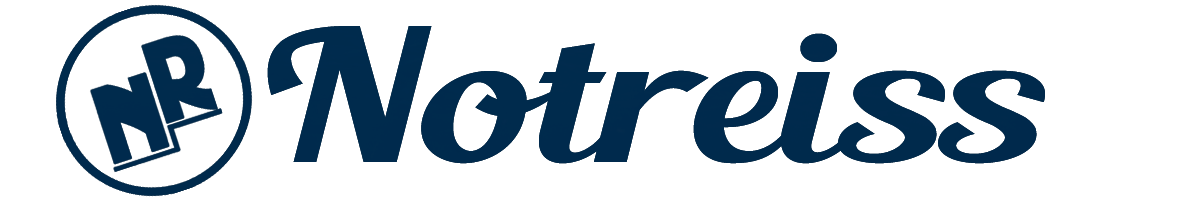
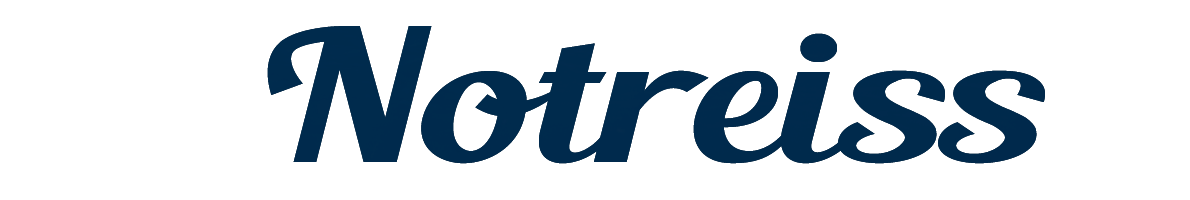
update style and text

Changed region(s): [[0.0311, 0.03, 0.2176, 0.99]]

diff --git a/layouts/partials/header.html b/layouts/partials/header.html
@@ -3,8 +3,8 @@
   <div class="container">
     <div class="row">
       <div class="col-12">
-        <nav class="navbar navbar-expand-lg navbar-light p-0">
-          <a class="navbar-brand font-weight-bold mr-0" href="{{site.BaseURL}}">            
+        <nav class="navbar flex items-center navbar-expand-lg navbar-light p-0">
+          <a class="navbar-brand font-weight-bold mb-3 mr-0" href="{{site.BaseURL}}">            
             {{ partial "logo.html" . }}
           </a>
 
@@ -28,15 +28,15 @@
               {{ $active = or $active (eq .Name $current.Title) }}
               {{if .HasChildren}}
               <li class="nav-item dropdown">
-                <a class="nav-link dropdown-toggle d-inline-block {{ if $active }}active{{ end }}" href="#" role="button" data-toggle="dropdown" aria-expanded="false">{{.Name}}</a>
+                <a class="nav-link dropdown-toggle d-inline-block " href="#" role="button" data-toggle="dropdown" aria-expanded="false">{{.Name}}</a>
                 <ul class="dropdown-menu">
                   {{range .Children}}
-                  <li><a class="dropdown-item {{ if $active }}active{{ end }}" href="{{.URL | absURL}}">{{.Name}}</a></li>
+                  <li><a class="dropdown-item " href="{{.URL | absURL}}">{{.Name}}</a></li>
                   {{end}}
                 </ul>
               </li>
               {{else}}
-              <li class="nav-item {{ if $active }}active{{ end }}">
+              <li class="nav-item">
                 <a class="nav-link" href="{{.URL | absURL}}">{{.Name}}</a>
               </li>
               {{end}}
@@ -47,8 +47,8 @@
             <div class="navbar-right d-none d-lg-inline-block">
               <ul class="social-links list-unstyled list-inline">
                 <li class="list-inline-item ml-4 d-none d-lg-inline-block">
-                  <button class="search-toggle" data-toggle="search" aria-label="Search Toggle">
-                    <i class="las la-search"></i>
+                  <button class="search-toggle flex" data-toggle="search" aria-label="Search Toggle">
+                    <i class="las la-search"></i> 
                   </button>
                 </li>
               </ul>

diff --git a/layouts/partials/page-header.html b/layouts/partials/page-header.html
@@ -17,14 +17,14 @@
         <ul class="list-inline breadcrumb-menu">
           {{ $url := replace .Permalink ( printf "%s" site.BaseURL) "" }}
           {{ $.Scratch.Add "path" site.BaseURL }}
-          <li class="list-inline-item"><a href="{{site.BaseURL | relLangURL}}">Home</a></li>
-          {{ range $index, $element := split $url "/" }}
+          <li class="list-inline-item"><a href="{{site.BaseURL | relLangURL}}">Article</a> | <a href="/author">Writters</a> | <a href="/categories">Categories</a></li>
+          <!-- {{ range $index, $element := split $url "/" }}
           {{ $.Scratch.Add "path" $element }}
           {{ if (ne $element "") }}
           <li class="list-inline-item">/ &nbsp; <a href="{{ $.Scratch.Get `path` }}">{{ . | humanize }}</a></li>
           {{ $.Scratch.Add "path" "/" }}
           {{ end }}
-          {{ end }}
+          {{ end }} -->
           </ul>
       </div>
     </div>

diff --git a/layouts/partials/footer.html b/layouts/partials/footer.html
@@ -24,13 +24,13 @@
       <div class="col-lg-12 text-center mt-5">
         <ul class="list-inline footer-menu mb-4">
           {{ range site.Menus.footer }}
-          <li class="list-inline-item mx-3"><a href="{{.URL | absURL}}">{{.Name}}</a></li>
+          | <li class="list-inline-item mx-3"><a href="{{.URL | absURL}}">{{.Name}}</a></li> 
           {{ end }}
         </ul>
         <ul class="social-links icon-box list-unstyled list-inline font-weight-500 mb-3">
           {{range site.Params.social}}
           <li class="list-inline-item text-center"><a href="{{.url}}" aria-label="social-icon">
-            <i class="lab {{.icon}}"></i>
+            <i class="lab {{.icon}}"></i> 
           </a></li>
           {{end}}
         </ul>

diff --git a/layouts/index.html b/layouts/index.html
@@ -3,11 +3,13 @@
 <section class="section-sm">
   <div class="container">
     <div class="row no-gutters justify-content-center">
+      <h1 class="my-20">Artikel - Artikel Terbaru Notreiss</h1>
+    
       <div class="col-lg-10">
         <div class="row">
           {{ $paginator := .Paginate (where site.RegularPages "Type" "in" site.Params.mainSections) }}
           {{range $index, $items := $paginator.Pages}}
-          <div class="{{ if (eq $index 0) }}col-lg-12{{ else }}col-lg-6{{ end }}">
+          <div class="border-left shadow-sm rounded pt-3 box-shadow my-3 {{ if (eq $index 0) }}col-lg-12{{ else }}col-lg-6{{ end }}">
             {{.Render "post"}}
           </div>
           {{end}}

diff --git a/layouts/author/list.html b/layouts/author/list.html
@@ -4,7 +4,7 @@
   <div class="container">
     <div class="row justify-content-center text-center">
       {{range .RegularPages }}
-      <div class="col-lg-4 col-sm-6 mb-4">
+      <div class="border-left shadow-sm rounded pt-3 box-shadow m-3 col-lg-4 col-sm-6 mb-4">
         {{ if .Params.image }}
         <a class="d-inline-block" href="{{.Permalink}}">
           {{ partial "image.html" (dict "Src" .Params.image "Size" "150x150" "Class" "img-fluid rounded" "Alt" .Title) }}

diff --git a/layouts/_default/post.html b/layouts/_default/post.html
@@ -1,4 +1,4 @@
-<article class="card post-card">
+<article class="card post-card border-left shadow-sm rounded px-3 box-shadow my-3">
   {{if .Params.image}}
   <a href="{{.Permalink}}">
     {{ partial "image.html" (dict "Src" .Params.image "Class" "w-100 h-auto rounded" "Alt" .Title) }}

diff --git a/content/about.md b/content/about.md
@@ -2,7 +2,7 @@
 title: "Tentang Notreiss"
 description : "Notreiss memiliki tujuan untuk mengedukasi dan menjadi sumber informasi yang informatif sehingga mampu meningkatkan Sumber Daya Manusia."
 layout: "about"
-image: "images/banner.png"
+image: "images/banner1.jpg"
 draft: false
 
 #caption
@@ -57,7 +57,7 @@ Notreiss memiliki tujuan untuk mengedukasi dan menjadi sumber informasi yang inf
 {{< /collapse >}}
 
 {{< collapse "Dengan Technology apa website ini dibangun ?" >}}
-  Website ini dibangun dengan framework Hago dan Juga css preprocessor SCSS serta vanilla javascript sebagai base programming language nya.
+  Website ini dibangun dengan framework Hugo dan Juga css preprocessor SCSS serta vanilla javascript sebagai base programming language nya.
 {{< /collapse >}}
 
 {{< collapse "Kenapa namanya Notreiss ?" >}}

diff --git a/content/about-me.md b/content/about-me.md
@@ -36,5 +36,5 @@ Dalam dunia menulis bisa terbilang saya cukup baru jadi dengan adanya website in
 
 
 {{< notice "note" >}}
-  Terimakasih sudah mengunjungi website ini jika kalian ingin memberikan dukungan, kontribusi, saran & kritik bisa hubungi saya melalui Social Media yang ada dengan senang hati saya terima.
+  Terimakasih sudah mengunjungi website ini jika kalian ingin memberikan dukungan, kontribusi, saran & kritik bisa hubungi saya melalui Social Media yang ada.
 {{< /notice >}}
